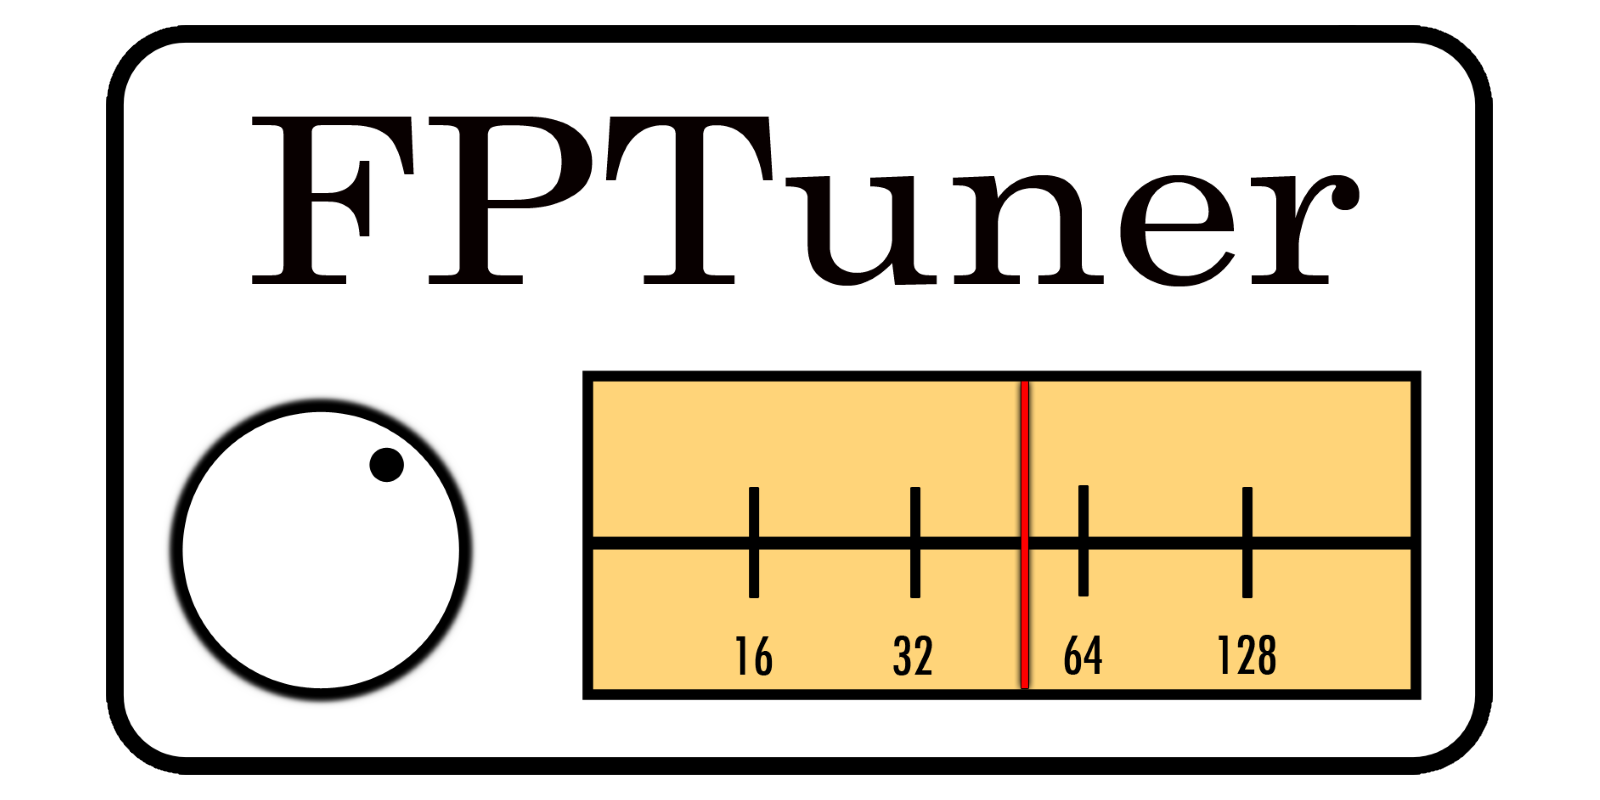
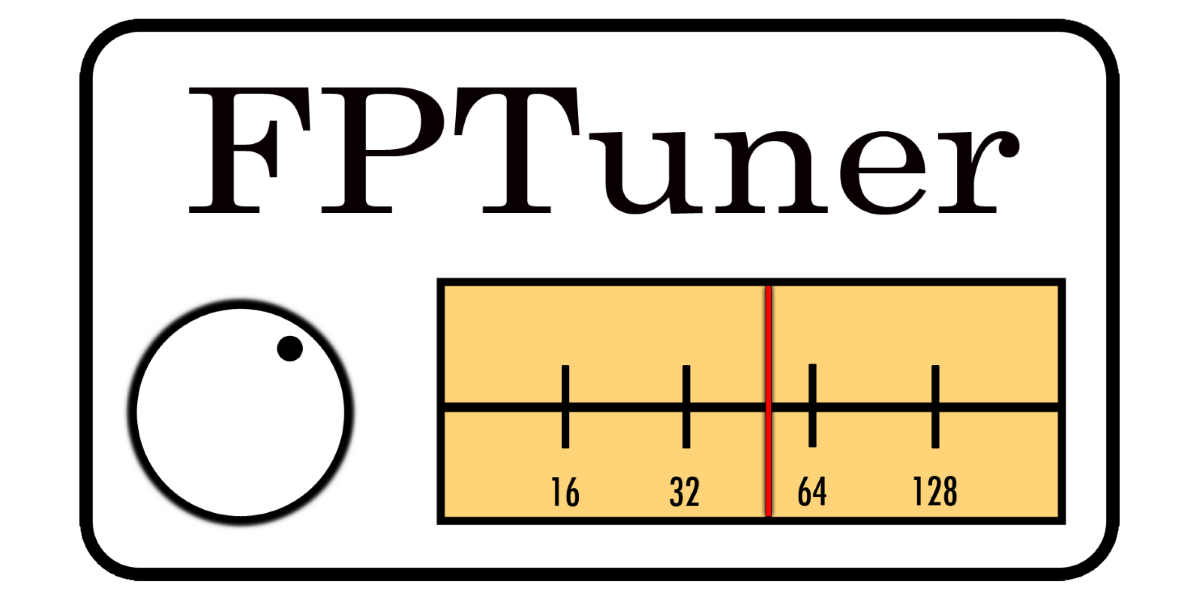
Resized images

diff --git a/assets/images/README.md b/assets/images/README.md
@@ -30,7 +30,7 @@ https://www.wordclouds.com). The teaser image is either the key figure
 from your publication (e.g., tool flow, core algorithm) if there is a nice one,
 or the same word cloud image as your thumbnail (note the difference in sizes).
 
-The aspect ratio for both should be 2:1. The teaser should be roughly 1600x800
+The aspect ratio for both should be 2:1. The teaser should be roughly 1200x600
 and be in the neighborhood of 200-300 kb. The thumbnail should be roughly
 400x200 with a file size of roughly 50-70 kb.
 
